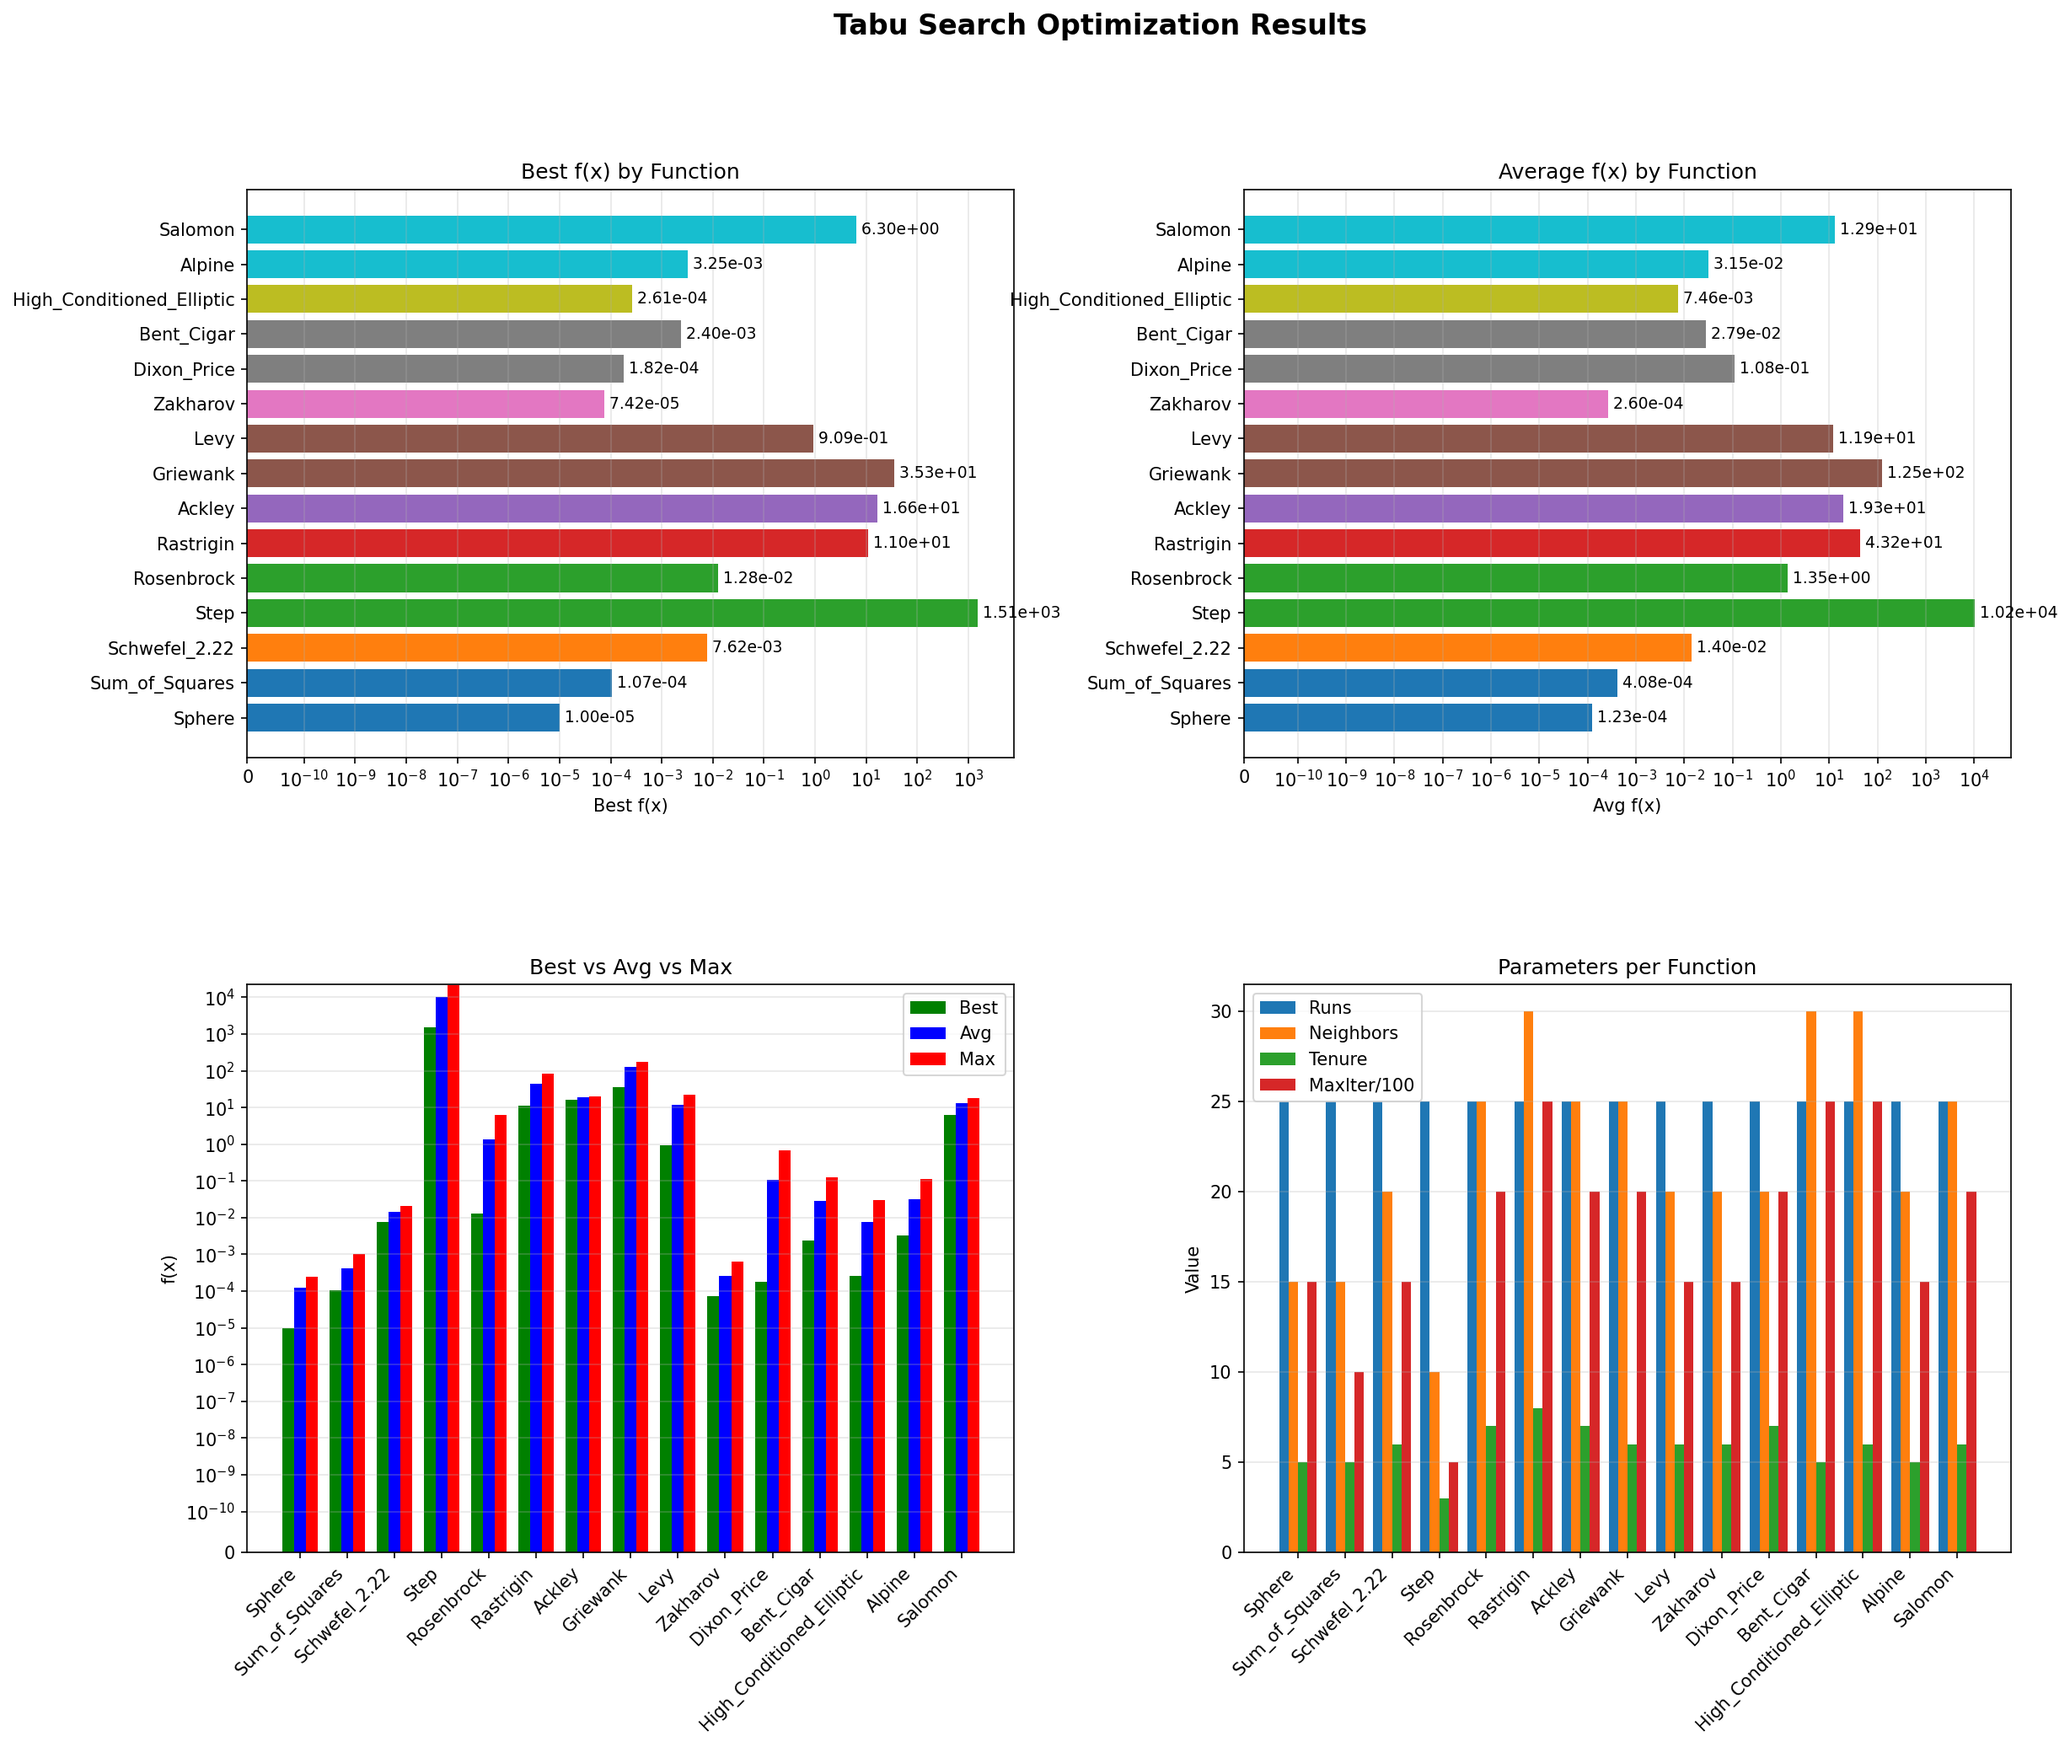
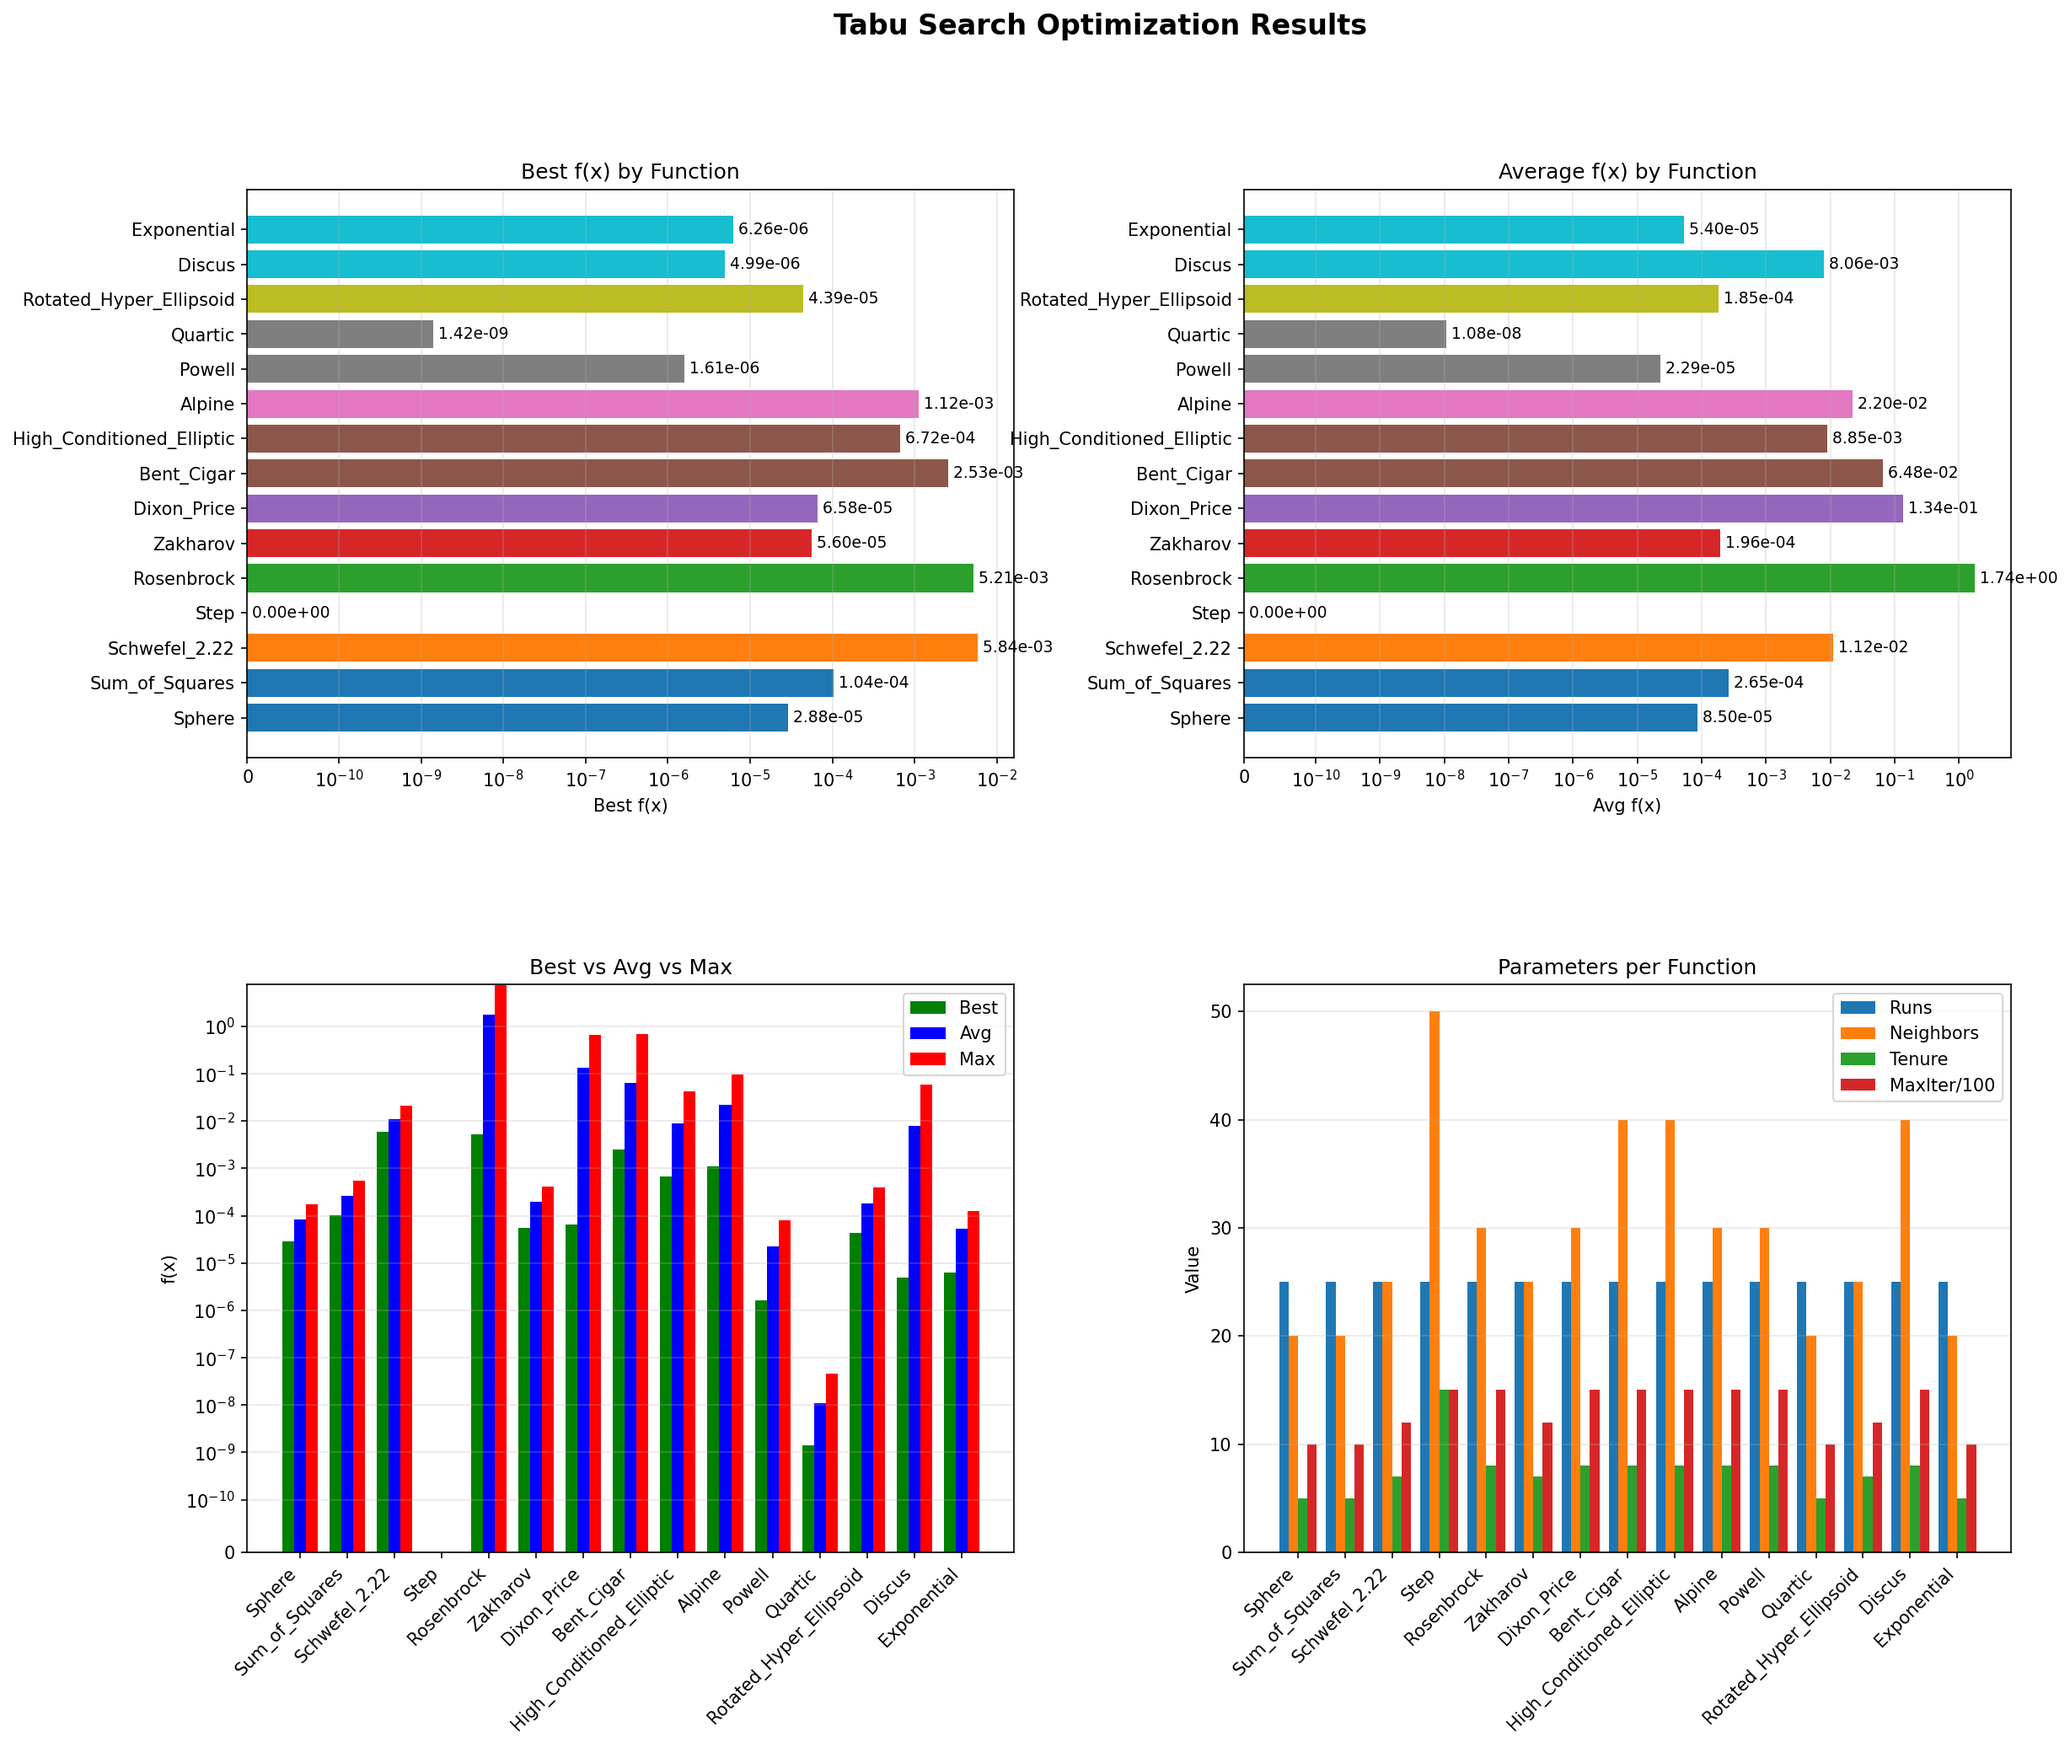
optimized values

diff --git a/main.py b/main.py
@@ -6,8 +6,8 @@ Runs all functions concurrently for faster execution.
 from run_tabu import run_tabu
 from func import (
     sphere, sum_of_squares, schwefel_222, step, rosenbrock,
-    rastrigin, ackley, griewank, levy, zakharov,
-    dixon_price, bent_cigar, high_conditioned_elliptic, alpine, salomon
+    zakharov, dixon_price, bent_cigar, high_conditioned_elliptic, alpine,
+    powell, quartic, rotated_hyper_ellipsoid, discus, exponential
 )
 from concurrent.futures import ProcessPoolExecutor
 from tabulate import tabulate
@@ -31,56 +31,58 @@ NUM_RUNS = 25
 STANDARD_DIMS = 5  # Standard dimension for fair comparison
 
 experiments = [
-    # Sphere - simple unimodal, converges fast
-    ("Sphere", sphere, 20, 5, 2000, (-5.12, 5.12), STANDARD_DIMS),
+    # Sphere - simple unimodal
+    ("Sphere", sphere, 20, 5, 1000, (-5.12, 5.12), STANDARD_DIMS),
     
-    # Sum_of_Squares - unimodal, similar to sphere
-    ("Sum_of_Squares", sum_of_squares, 20, 5, 1500, (-10, 10), STANDARD_DIMS),
+    # Sum_of_Squares - unimodal
+    ("Sum_of_Squares", sum_of_squares, 20, 5, 1000, (-10, 10), STANDARD_DIMS),
     
     # Schwefel 2.22 - unimodal
-    ("Schwefel_2.22", schwefel_222, 25, 7, 2000, (-10, 10), STANDARD_DIMS),
+    ("Schwefel_2.22", schwefel_222, 25, 7, 1200, (-10, 10), STANDARD_DIMS),
     
-    # Step - HARD: discontinuous, needs many neighbors and high tenure
-    ("Step", step, 50, 15, 5000, (-5.12, 5.12), STANDARD_DIMS),  # Reduced bounds, more exploration
+    # Step - discontinuous
+    ("Step", step, 50, 15, 1500, (-5.12, 5.12), STANDARD_DIMS),
     
-    # Rosenbrock - valley-shaped, classic
-    ("Rosenbrock", rosenbrock, 30, 8, 3000, (-5, 10), STANDARD_DIMS),
-    
-    # Rastrigin - HARD: highly multimodal, needs aggressive exploration
-    ("Rastrigin", rastrigin, 50, 12, 5000, (-5.12, 5.12), STANDARD_DIMS),
-    
-    # Ackley - HARD: many local minima, reduced bounds help
-    ("Ackley", ackley, 50, 10, 5000, (-5, 5), STANDARD_DIMS),  # Reduced bounds from (-32, 32)
-    
-    # Griewank - HARD: multimodal, reduced bounds significantly
-    ("Griewank", griewank, 50, 12, 5000, (-100, 100), STANDARD_DIMS),  # Reduced from (-600, 600)
-    
-    # Lévy - HARD: deceptive, needs more exploration
-    ("Levy", levy, 40, 10, 4000, (-10, 10), STANDARD_DIMS),
+    # Rosenbrock - valley-shaped (optimal at x=1)
+    ("Rosenbrock", rosenbrock, 30, 8, 1500, (-5, 10), STANDARD_DIMS),
     
     # Zakharov - unimodal, bowl-shaped
-    ("Zakharov", zakharov, 25, 7, 2000, (-5, 10), STANDARD_DIMS),
+    ("Zakharov", zakharov, 25, 7, 1200, (-5, 10), STANDARD_DIMS),
     
     # Dixon-Price - non-separable
-    ("Dixon_Price", dixon_price, 30, 8, 3000, (-10, 10), STANDARD_DIMS),
+    ("Dixon_Price", dixon_price, 30, 8, 1500, (-10, 10), STANDARD_DIMS),
     
     # Bent_Cigar - very ill-conditioned
-    ("Bent_Cigar", bent_cigar, 40, 8, 4000, (-100, 100), STANDARD_DIMS),
+    ("Bent_Cigar", bent_cigar, 40, 8, 1500, (-100, 100), STANDARD_DIMS),
     
     # High-Conditioned Elliptic - ill-conditioned
-    ("High_Conditioned_Elliptic", high_conditioned_elliptic, 40, 8, 4000, (-100, 100), STANDARD_DIMS),
+    ("High_Conditioned_Elliptic", high_conditioned_elliptic, 40, 8, 1500, (-100, 100), STANDARD_DIMS),
     
-    # Alpine - multimodal
-    ("Alpine", alpine, 30, 8, 3000, (-10, 10), STANDARD_DIMS),
+    # Alpine - mildly multimodal
+    ("Alpine", alpine, 30, 8, 1500, (-10, 10), STANDARD_DIMS),
     
-    # Salomon - HARD: circular ridges, reduced bounds
-    ("Salomon", salomon, 50, 12, 5000, (-50, 50), STANDARD_DIMS),  # Reduced from (-100, 100)
+    # Powell - non-separable (dims=4)
+    ("Powell", powell, 30, 8, 1500, (-4, 5), 4),
+    
+    # Quartic - smooth unimodal
+    ("Quartic", quartic, 20, 5, 1000, (-1.28, 1.28), STANDARD_DIMS),
+    
+    # Rotated Hyper-Ellipsoid - non-separable
+    ("Rotated_Hyper_Ellipsoid", rotated_hyper_ellipsoid, 25, 7, 1200, (-65, 65), STANDARD_DIMS),
+    
+    # Discus - ill-conditioned
+    ("Discus", discus, 40, 8, 1500, (-100, 100), STANDARD_DIMS),
+    
+    # Exponential - smooth unimodal
+    ("Exponential", exponential, 20, 5, 1000, (-1, 1), STANDARD_DIMS),
 ]
 
 
 if __name__ == "__main__":
-    # Run all experiments concurrently
-    with ProcessPoolExecutor() as executor:
+    # Run all experiments concurrently (leave 2 cores free)
+    import os
+    max_workers = max(1, os.cpu_count() - 2)
+    with ProcessPoolExecutor(max_workers=max_workers) as executor:
         results = list(executor.map(run_experiment, experiments))
     
     # Sort results by best_f to assign ranks

diff --git a/func.py b/func.py
@@ -28,7 +28,7 @@ def step(x):
     """
     Step Function
     Global minimum: f(0, ..., 0) = 0
-    Search domain: [-100, 100]
+    Search domain: [-5.12, 5.12]
     """
     return sum(int(i)**2 for i in x)
 
@@ -39,53 +39,6 @@ def rosenbrock(x):
     Search domain: [-5, 10]
     """
     return sum(100 * (x[i+1] - x[i]**2)**2 + (1 - x[i])**2 for i in range(len(x)-1))
-
-def rastrigin(x):
-    """
-    Rastrigin Function - Highly multimodal
-    Global minimum: f(0, ..., 0) = 0
-    Search domain: [-5.12, 5.12]
-    """
-    n = len(x)
-    return 10*n + sum(i**2 - 10*math.cos(2*math.pi*i) for i in x)
-
-def ackley(x):
-    """
-    Ackley Function - Multimodal with many local minima
-    Global minimum: f(0, ..., 0) = 0
-    Search domain: [-32, 32]
-    """
-    n = len(x)
-    s1 = sum(i**2 for i in x)
-    s2 = sum(math.cos(2*math.pi*i) for i in x)
-    return -20 * math.exp(-0.2 * math.sqrt(s1 / n)) - math.exp(s2 / n) + 20 + math.e
-
-def griewank(x):
-    """
-    Griewank Function - Popular multimodal function
-    Global minimum: f(0, ..., 0) = 0
-    Search domain: [-600, 600]
-    """
-    sum_sq = sum(xi**2 for xi in x)
-    prod_cos = 1
-    for i, xi in enumerate(x):
-        prod_cos *= math.cos(xi / math.sqrt(i + 1))
-    return 1 + sum_sq / 4000 - prod_cos
-
-def levy(x):
-    """
-    Lévy Function - Widely used in CEC competitions
-    Global minimum: f(1, ..., 1) = 0
-    Search domain: [-10, 10]
-    """
-    n = len(x)
-    w = [(xi - 1) / 4 + 1 for xi in x]
-    
-    term1 = math.sin(math.pi * w[0])**2
-    term2 = sum((w[i] - 1)**2 * (1 + 10 * math.sin(math.pi * w[i] + 1)**2) for i in range(n - 1))
-    term3 = (w[-1] - 1)**2 * (1 + math.sin(2 * math.pi * w[-1])**2)
-    
-    return term1 + term2 + term3
 
 def zakharov(x):
     """
@@ -133,11 +86,55 @@ def alpine(x):
     """
     return sum(abs(xi * math.sin(xi) + 0.1 * xi) for xi in x)
 
-def salomon(x):
+def powell(x):
     """
-    Salomon Function
+    Powell Function - Non-separable
+    Global minimum: f(0, ..., 0) = 0
+    Search domain: [-4, 5]
+    Note: Works best with dims divisible by 4
+    """
+    n = len(x)
+    result = 0
+    for i in range(0, n - 3, 4):
+        result += (x[i] + 10*x[i+1])**2
+        result += 5 * (x[i+2] - x[i+3])**2
+        result += (x[i+1] - 2*x[i+2])**4
+        result += 10 * (x[i] - x[i+3])**4
+    return result
+
+def quartic(x):
+    """
+    Quartic Function (De Jong's F4)
+    Global minimum: f(0, ..., 0) = 0
+    Search domain: [-1.28, 1.28]
+    """
+    return sum((i + 1) * xi**4 for i, xi in enumerate(x))
+
+def rotated_hyper_ellipsoid(x):
+    """
+    Rotated Hyper-Ellipsoid Function
+    Global minimum: f(0, ..., 0) = 0
+    Search domain: [-65.536, 65.536]
+    """
+    n = len(x)
+    result = 0
+    for i in range(n):
+        result += sum(x[j]**2 for j in range(i + 1))
+    return result
+
+def discus(x):
+    """
+    Discus (Tablet) Function
     Global minimum: f(0, ..., 0) = 0
     Search domain: [-100, 100]
     """
-    sum_sq = math.sqrt(sum(xi**2 for xi in x))
-    return 1 - math.cos(2 * math.pi * sum_sq) + 0.1 * sum_sq
+    return 1e6 * x[0]**2 + sum(xi**2 for xi in x[1:])
+
+def exponential(x):
+    """
+    Exponential Function
+    Global minimum: f(0, ..., 0) = 0
+    Search domain: [-1, 1]
+    """
+    return -math.exp(-0.5 * sum(xi**2 for xi in x)) + 1
+
